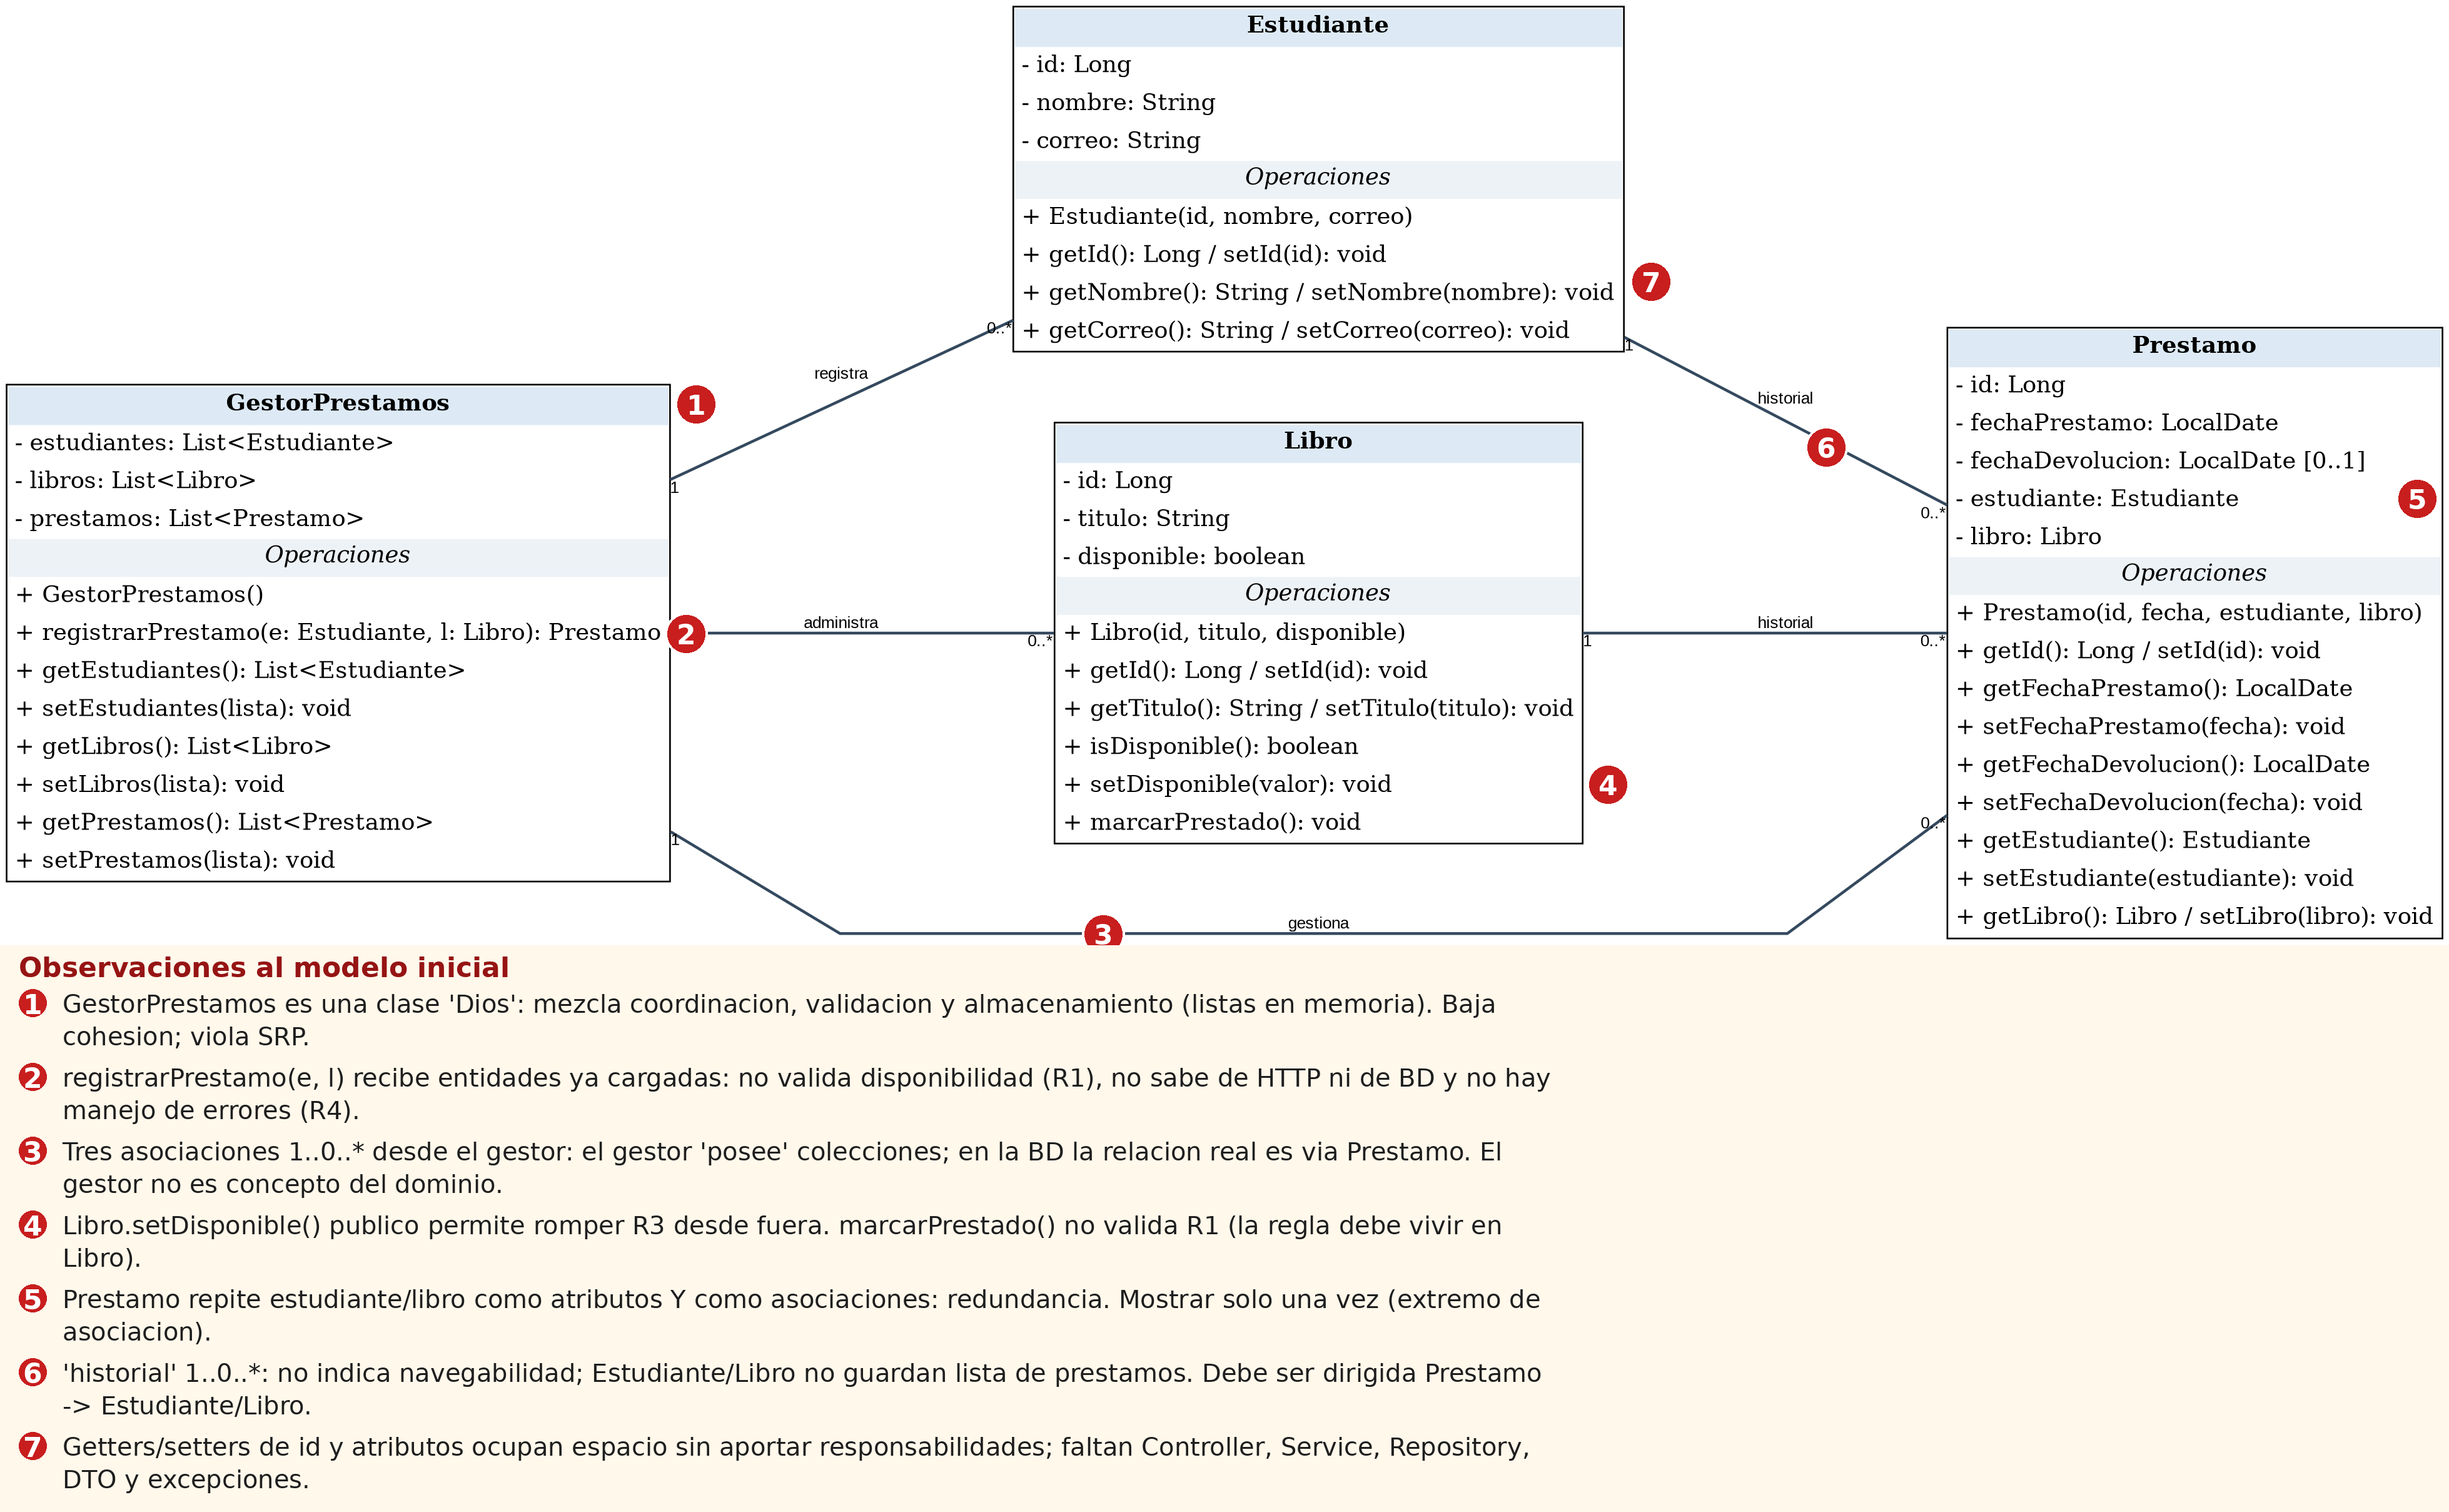
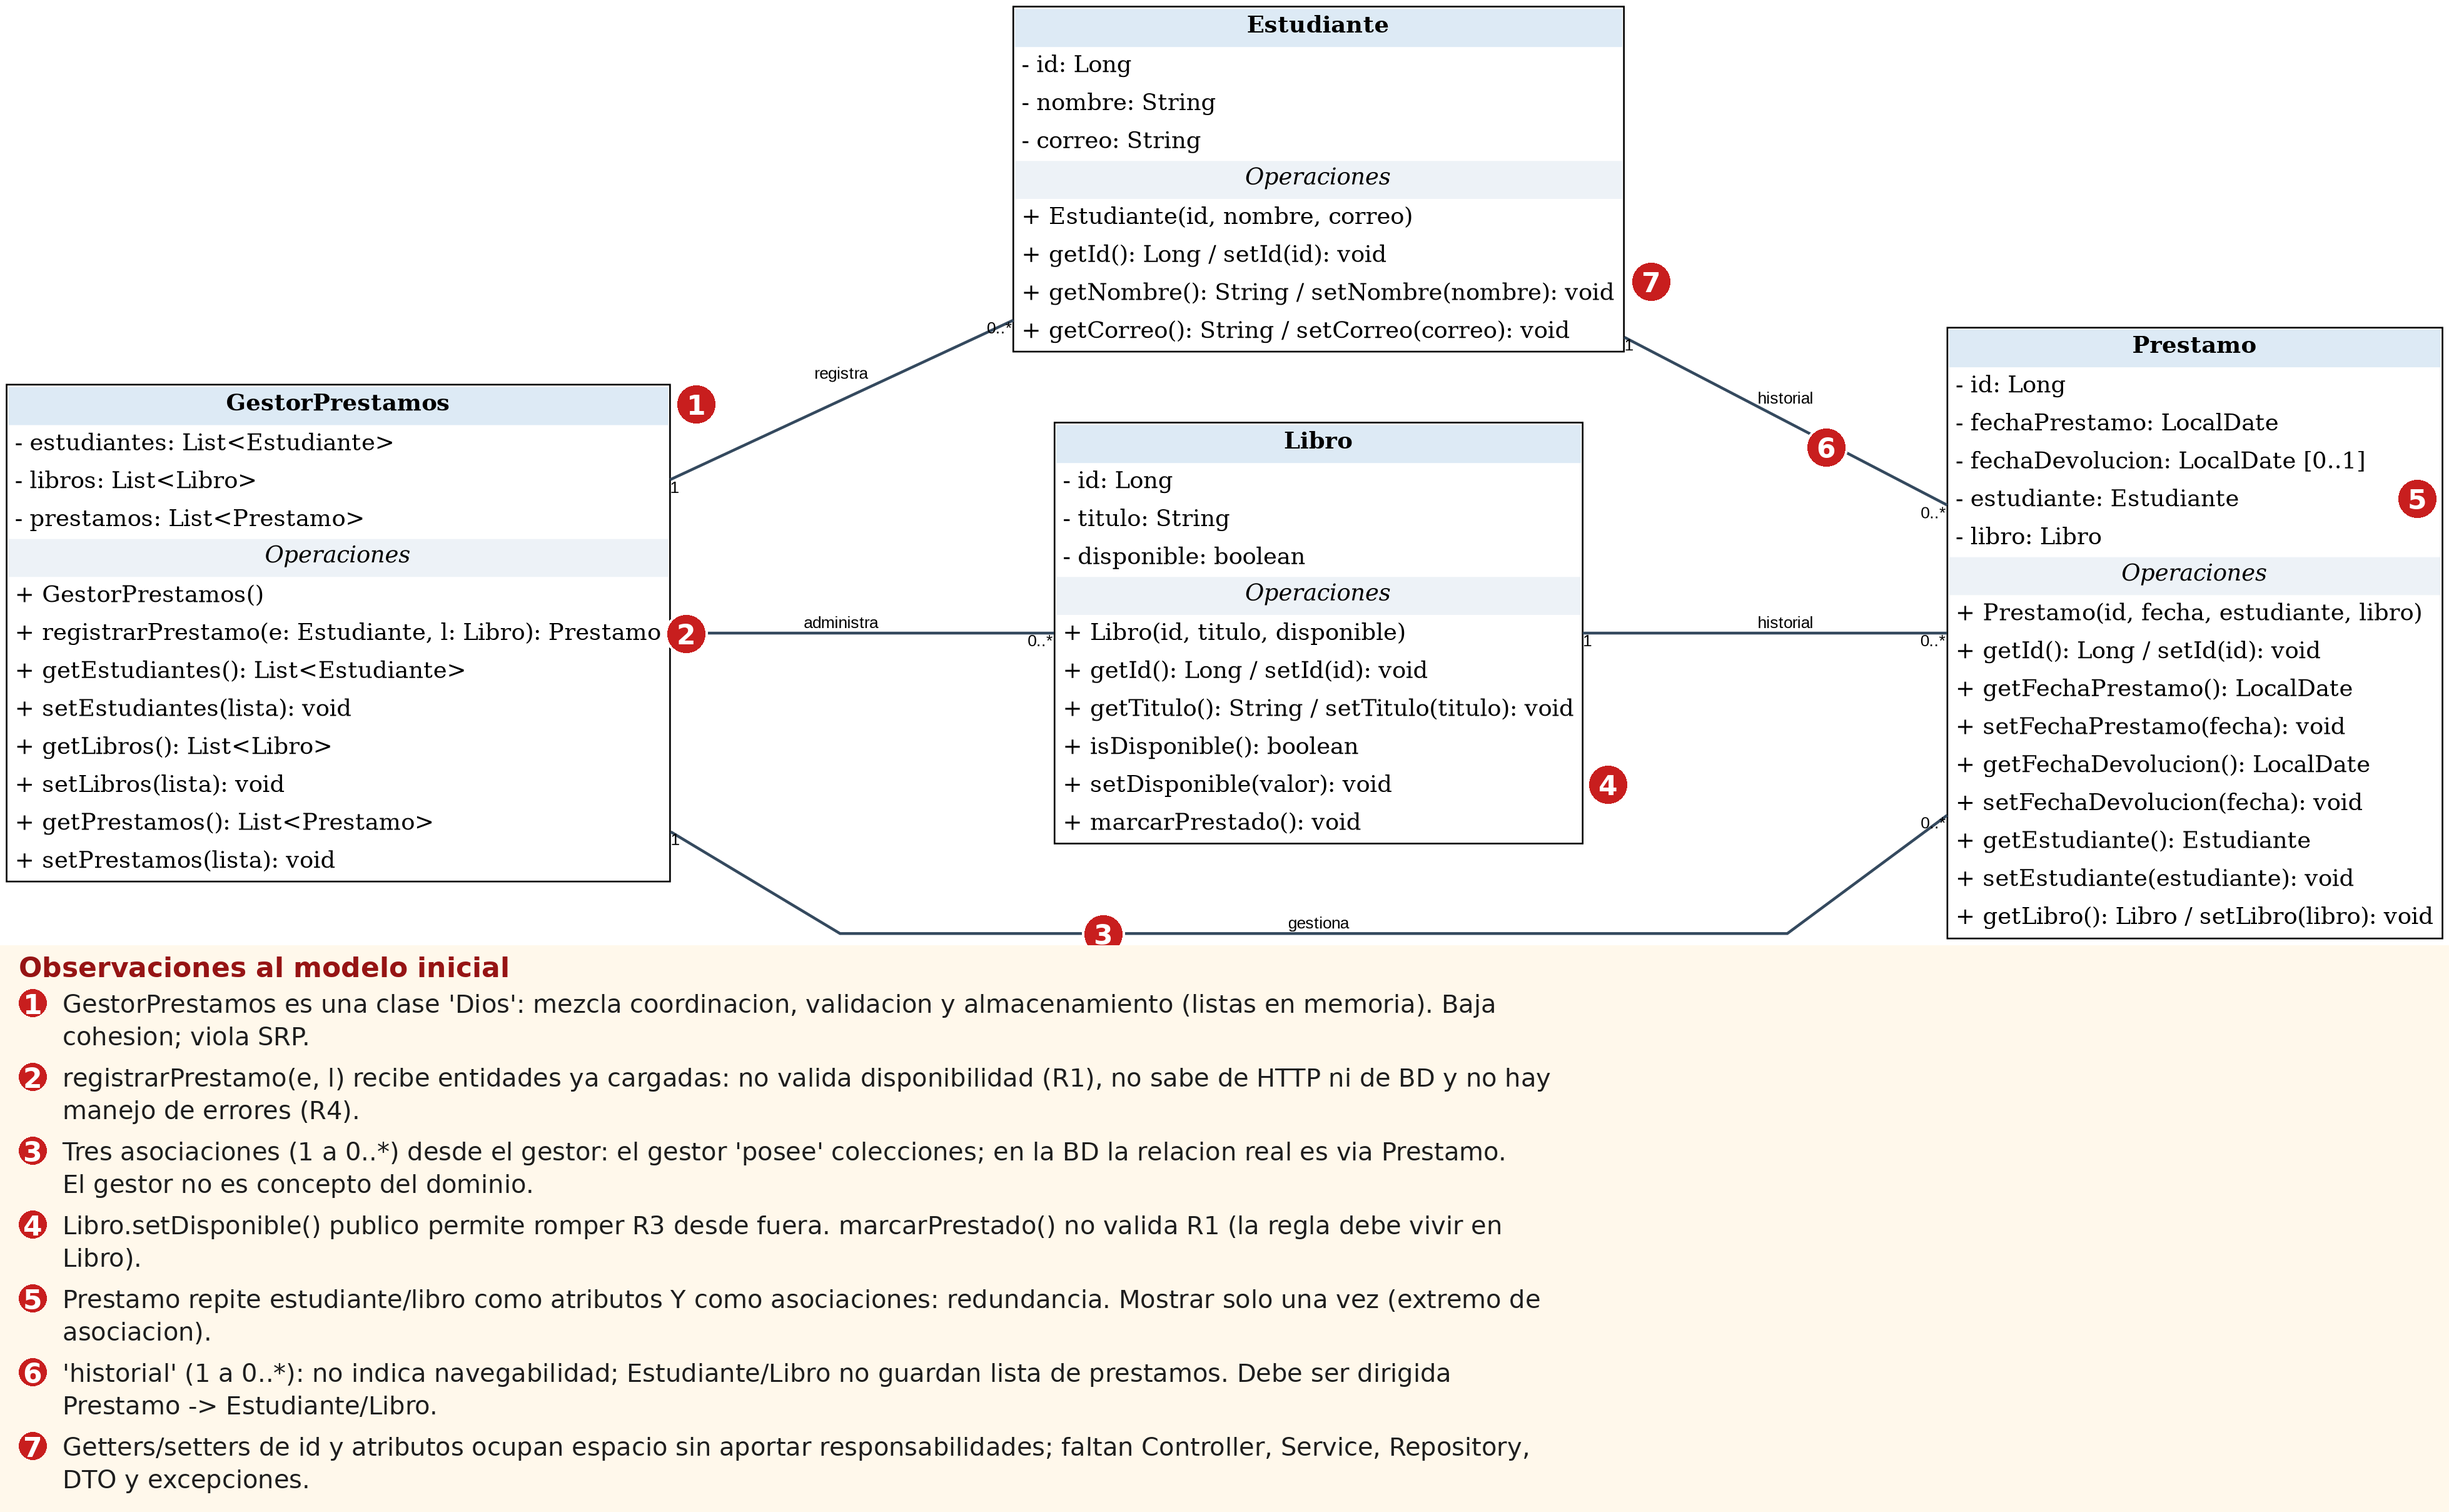
docs: observaciones del modelo inicial

Changed region(s): [[0.0312, 0.7447, 0.6231, 0.8068], [0.0312, 0.8999, 0.6231, 0.9309]]

diff --git a/docs/01-analisis-modelo-inicial.md b/docs/01-analisis-modelo-inicial.md
@@ -40,12 +40,12 @@ Una **composición** implica que la parte no existe sin el todo y que comparten 
 
 ## 5. Observaciones al modelo inicial
 
-Diagrama de clases inicial con las observaciones numeradas:
-
 ![Diagrama inicial anotado](diagramas/00-diagrama-inicial-anotado.png)
 
-
-1. **`GestorPrestamos` es una clase "Dios"**: concentra la búsqueda de datos, la validación, la creación del préstamo y (implícitamente) la persistencia. Se reparte entre `PrestamoController` (HTTP), `PrestamoService` (coordinación del caso de uso) y los repositorios (datos).
-2. **`setDisponible(boolean)` público rompe R3**: cualquier clase podría volver a poner un libro disponible o prestar un libro ya prestado sin validar. Se sustituye por `Libro.marcarPrestado()`, que valida y cambia el estado en un solo paso (encapsulamiento).
-3. **`Prestamo` duplica estudiante y libro**: aparecen como atributo (p. ej. `idEstudiante`, `idLibro`) **y** como asociación. Es redundante y puede volverse inconsistente; se deja solo la asociación (referencias a objetos, mapeadas con `@ManyToOne`).
-4. **Asociaciones sin navegabilidad**: no se indica quién conoce a quién. Se define navegabilidad **Prestamo → Estudiante** y **Prestamo → Libro**; ni Libro ni Estudiante necesitan conocer sus préstamos para este caso de uso.
+1. **GestorPrestamos es una clase "Dios"**: mezcla coordinación, validación y almacenamiento (listas en memoria). Tiene baja cohesión y viola el principio de responsabilidad única (SRP).
+2. **registrarPrestamo(e, l) recibe entidades ya cargadas**: no valida la disponibilidad (R1), no sabe de HTTP ni de la base de datos, y no tiene manejo de errores (R4).
+3. **Tres asociaciones (1 a 0..\*) desde el gestor**: el gestor "posee" las colecciones; la relación real en la base de datos es a través de Prestamo. El gestor no es un concepto del dominio.
+4. **Libro.setDisponible() es público** y permite romper R3 desde fuera; marcarPrestado() no valida R1. La regla debe vivir dentro de Libro.
+5. **Prestamo repite estudiante y libro** como atributos y también como asociaciones: hay redundancia. Deben mostrarse una sola vez, como extremo de asociación.
+6. **Las asociaciones "historial" (1 a 0..\*) no indican navegabilidad**: Estudiante y Libro no guardan lista de préstamos. Deben ser asociaciones dirigidas Prestamo -> Estudiante y Prestamo -> Libro.
+7. **Los getters y setters de id y atributos** ocupan espacio sin aportar responsabilidades, y faltan Controller, Service, Repository, DTO y excepciones.
